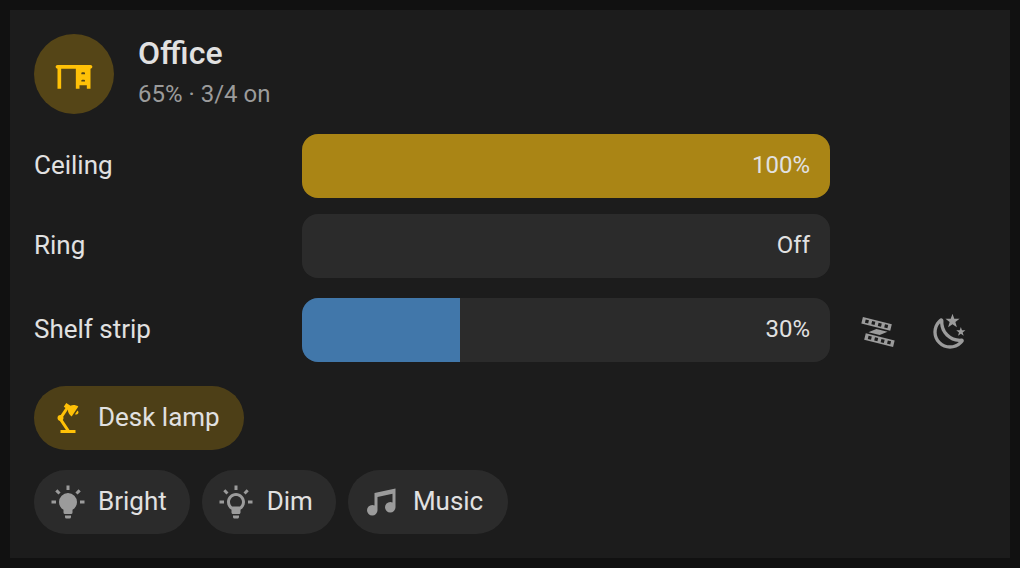
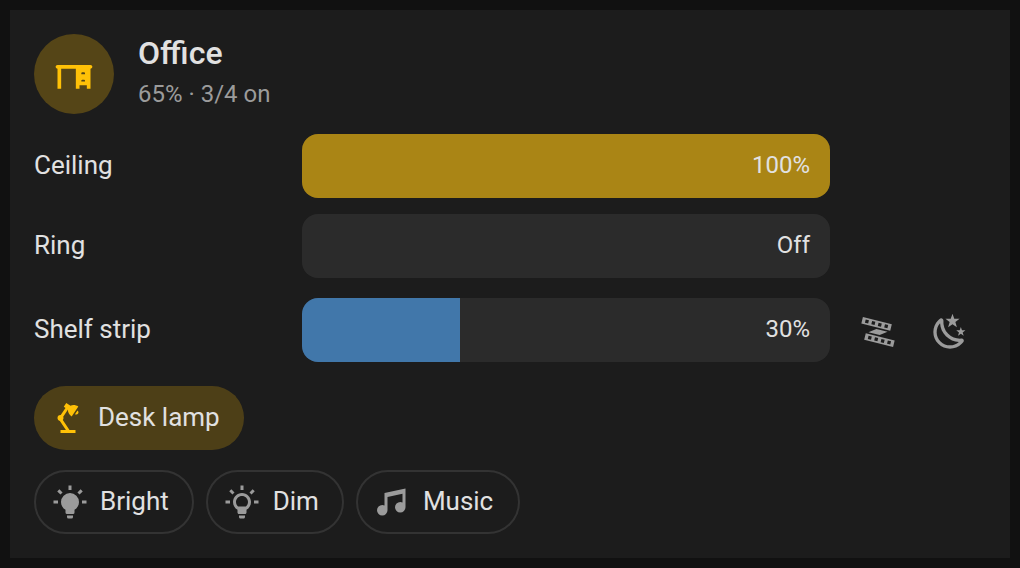
Room lights card 1.0.1: outline scene buttons
Scene buttons were grey pills like the buttons of on/off lights and switches.
They are now outlined, while lights stay filled and light up when on.

Changed region(s): [[0.3647, 0.838, 0.4863, 0.9278], [0.2127, 0.838, 0.3343, 0.9278], [0.0304, 0.868, 0.1824, 0.8979]]

diff --git a/dist/room-lights-card.js b/dist/room-lights-card.js
@@ -1,4 +1,4 @@
-/*! room-lights-card 1.0.0 | MIT License */
+/*! room-lights-card 1.0.1 | MIT License */
 var __defProp = Object.defineProperty;
 var __getOwnPropDesc = Object.getOwnPropertyDescriptor;
 var __decorateClass = (decorators, target, key, kind) => {
@@ -604,7 +604,7 @@ function r5(r6) {
 }
 
 // src/const.ts
-var CARD_VERSION = "1.0.0";
+var CARD_VERSION = "1.0.1";
 var DEFAULT_ICON = "mdi:lightbulb-group";
 var KEY_STEP = 5;
 var PAGE_STEP = 10;
@@ -1671,6 +1671,12 @@ var RoomLightsCard = class extends i4 {
                 background: var(--rlc-quiet);
                 font-size: 13px;
                 --mdc-icon-size: 18px;
+            }
+
+            /* A light is filled, as a thing with a state, and a scene is outlined, as an action, so the two never look alike. */
+            .chip {
+                border: 1px solid var(--divider-color, rgba(127, 127, 127, 0.3));
+                background: none;
             }
 
             .pill span,

diff --git a/src/room-lights-card.ts b/src/room-lights-card.ts
@@ -667,6 +667,12 @@ export class RoomLightsCard extends LitElement {
                 --mdc-icon-size: 18px;
             }
 
+            /* A light is filled, as a thing with a state, and a scene is outlined, as an action, so the two never look alike. */
+            .chip {
+                border: 1px solid var(--divider-color, rgba(127, 127, 127, 0.3));
+                background: none;
+            }
+
             .pill span,
             .chip span {
                 overflow-wrap: anywhere;
